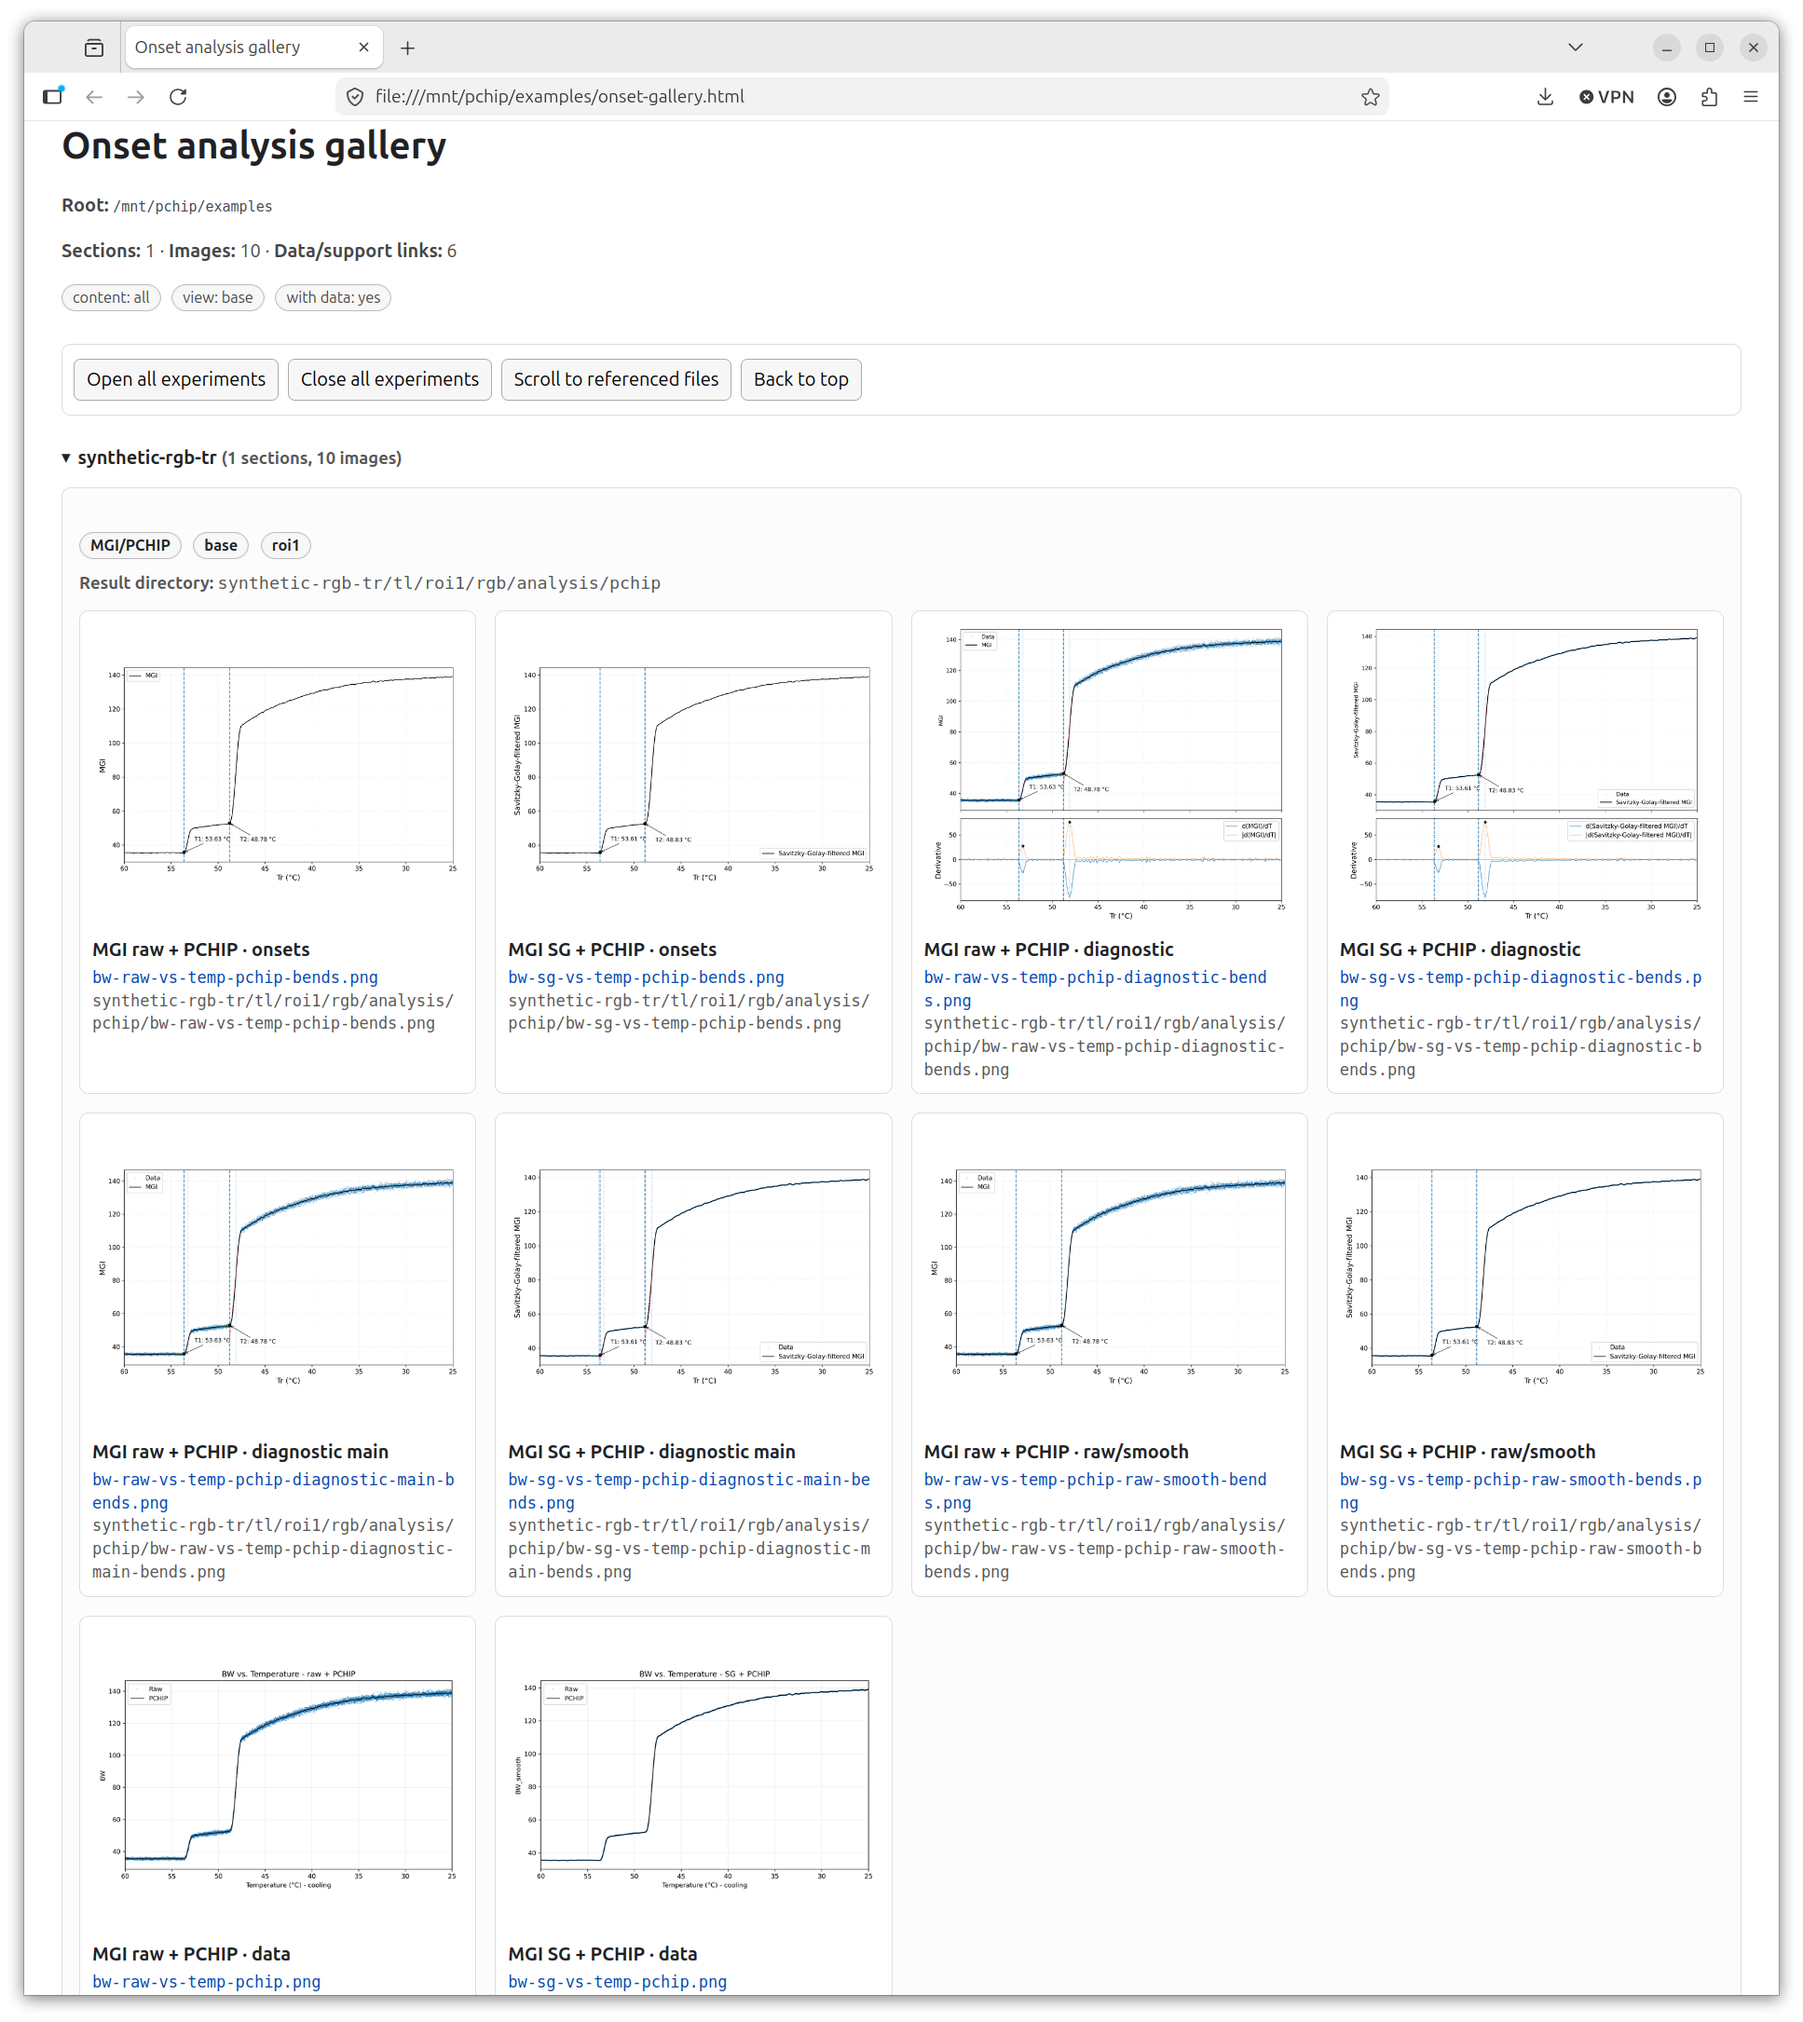
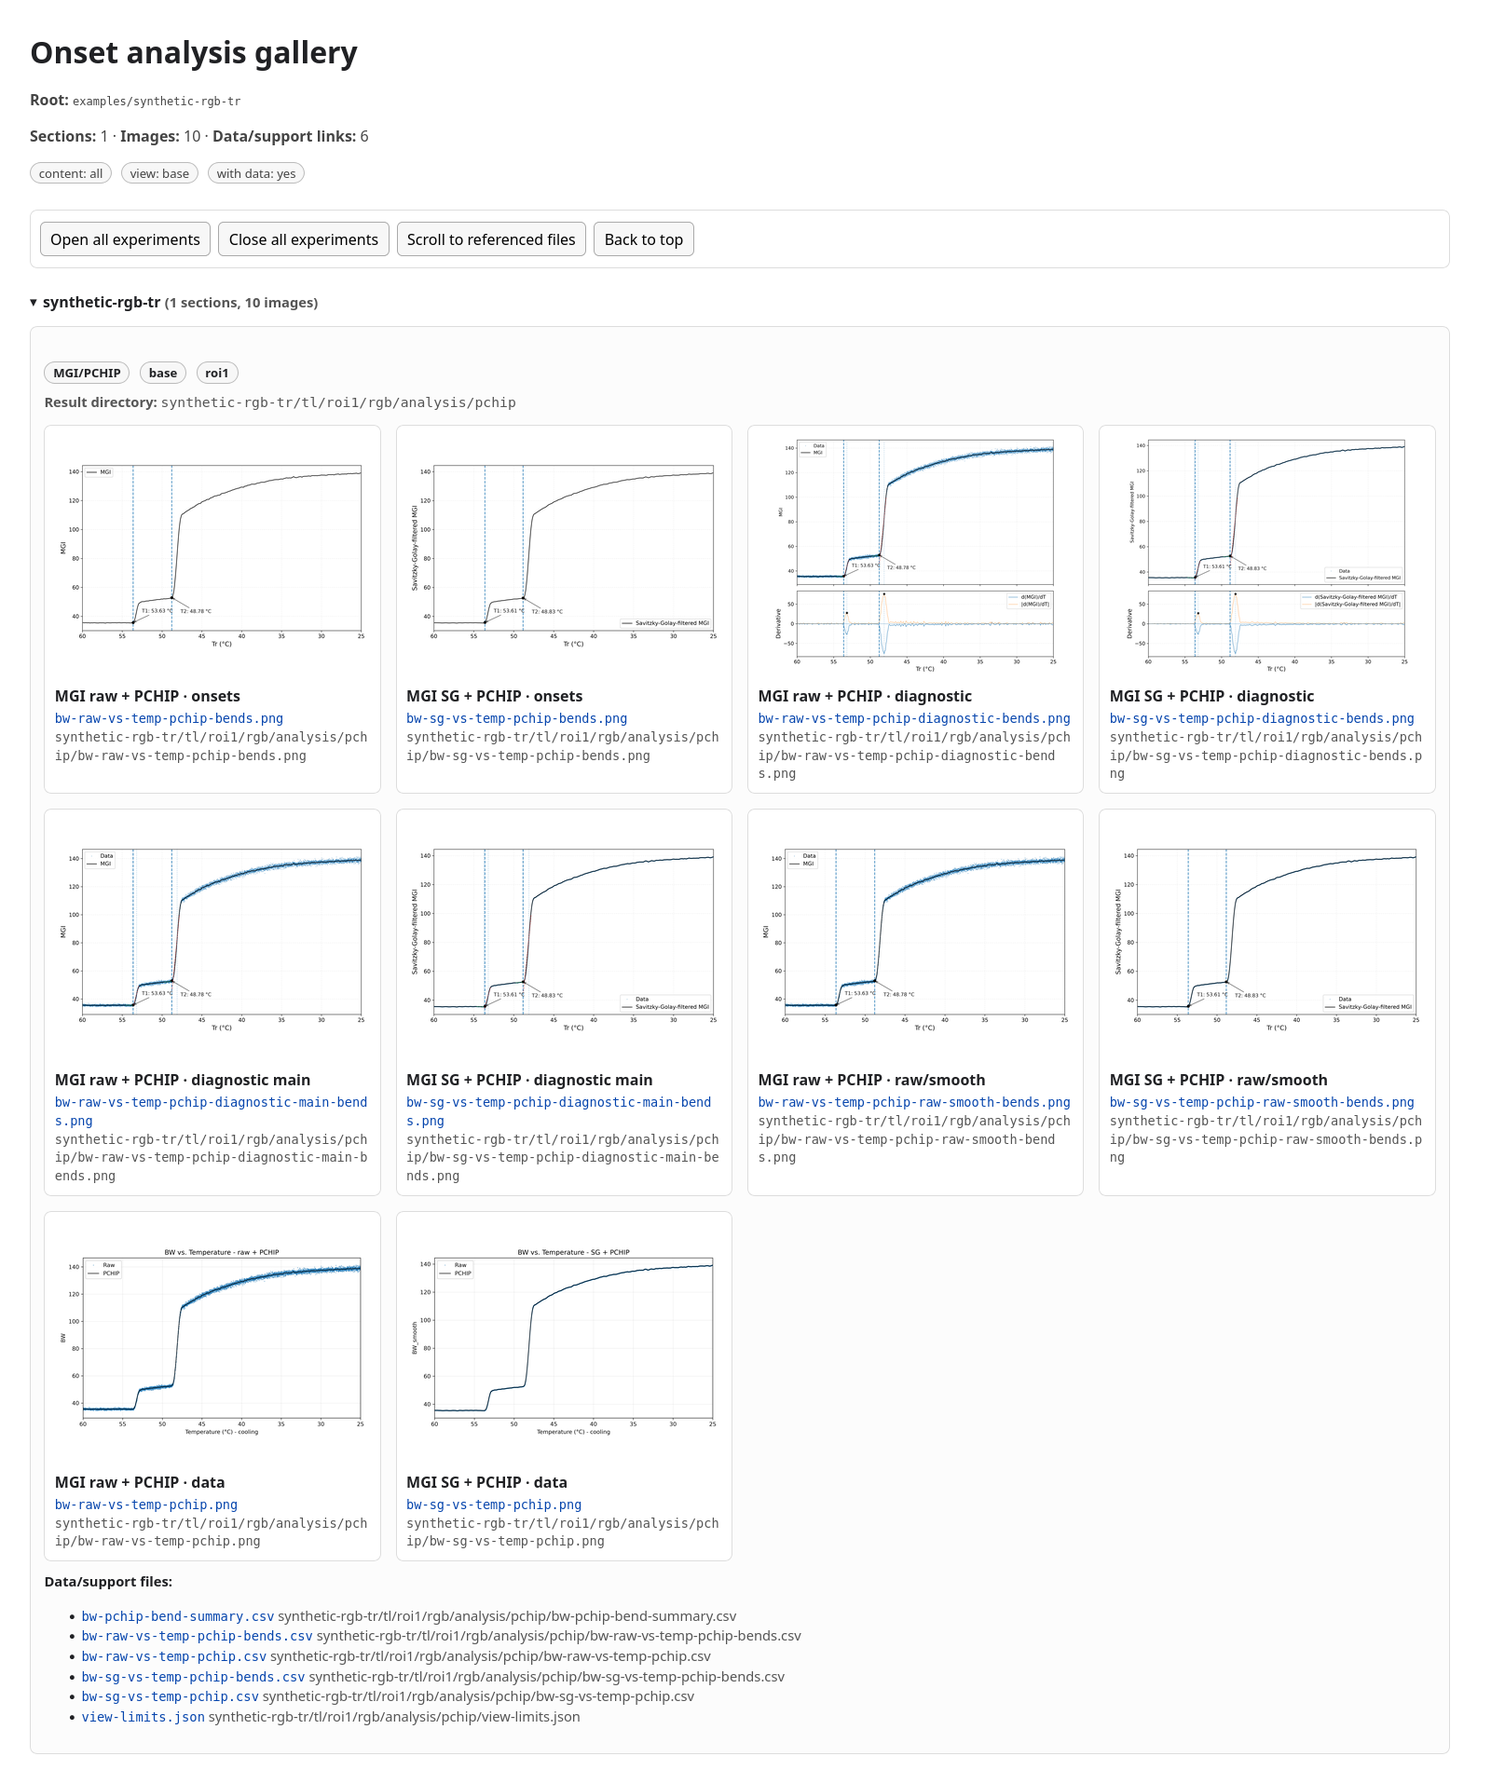
Refresh synthetic gallery and documentation screenshot

diff --git a/tests/test_publication_gallery.py b/tests/test_publication_gallery.py
@@ -36,3 +36,14 @@ class PublicationGalleryTests(unittest.TestCase):
                 'none; saved samples and accepted results only','options':{'width_mm':'NaN'}})):
                 image.with_suffix('.manifest.json').write_text(content)
                 self.assertIsNone(g.publication_width_mm(image))
+
+    def test_public_root_label_changes_only_visible_heading(self):
+        from argparse import Namespace
+        root = Path('/neutral/synthetic')
+        args = Namespace(gallery_content='all', gallery_view='base', with_data=True,
+                         thumbnail_height=240, view_id=None, open_all=True, no_tree=True, title='Synthetic gallery', root_label='examples/synthetic-rgb-tr')
+        page = g.render_html(args=args, root_abs=root, output_path=root/'index.html', items=[])
+        self.assertIn('<code>examples/synthetic-rgb-tr</code>', page)
+        self.assertNotIn('/neutral/synthetic', page)
+        args.root_label = '<synthetic>'
+        self.assertIn('&lt;synthetic&gt;', g.render_html(args=args, root_abs=root, output_path=root/'index.html', items=[]))

diff --git a/scripts/make-onset-gallery.py b/scripts/make-onset-gallery.py
@@ -254,6 +254,7 @@ def parse_args() -> argparse.Namespace:
         default=Path("."),
         help="Source PCHIP project root directory.",
     )
+    parser.add_argument("--root-label", help="Display name for the source root; does not change file paths.")
     parser.add_argument(
         "--output",
         type=Path,
@@ -1209,7 +1210,7 @@ def render_html(
 
     css = render_css(args.thumbnail_height)
     title = html.escape(args.title)
-    root_display = html.escape(root_abs.as_posix())
+    root_display = html.escape(getattr(args, "root_label", None) or root_abs.as_posix())
 
     lines: list[str] = [
         "<!doctype html>",

diff --git a/docs/gallery.md b/docs/gallery.md
@@ -166,23 +166,32 @@ examples/synthetic-rgb-tr/rgb-tr-sg.csv
 examples/synthetic-rgb-tr/pchip/
 ```
 
-To generate a gallery from it, copy the `pchip/` output into a temporary
-experiment-tree layout, for example under `/path/to/data`:
+To reproduce the documentation gallery using only committed synthetic results,
+run from the repository root (use a fresh `work` directory):
 
 ```bash
-work=/path/to/data/examples
-rm -rf "$work/synthetic-rgb-tr"
-
+work=generated/synthetic-gallery
 mkdir -p "$work/synthetic-rgb-tr/tl/roi1/rgb/analysis"
 cp -a examples/synthetic-rgb-tr/pchip \
   "$work/synthetic-rgb-tr/tl/roi1/rgb/analysis/pchip"
-
 python3 scripts/make-onset-gallery.py "$work" \
   --gallery-content all \
   --gallery-view base \
   --with-data \
-  --output "$work/onset-gallery.html"
+  --root-label examples/synthetic-rgb-tr \
+  --open-all \
+  --output onset-gallery.html
 ```
+
+Open `generated/synthetic-gallery/onset-gallery.html` offline. All image and
+support links are relative, so the directory can be moved or shared intact.
+`--root-label` changes only the displayed root name, not discovery or links.
+
+The example gallery contains **10 MGI/PCHIP images**: RAW and SG versions of
+onsets, diagnostics, diagnostic main, raw/smooth, and PCHIP data plots.
+`rgb-tr-sg.png` is deliberately excluded: it is a preprocessing quick-look,
+whose legacy bend markers are not the final PCHIP onset results.
+The documentation screenshot captures the gallery content without browser chrome.
 
 ## Related files
 

diff --git a/README.md b/README.md
@@ -43,7 +43,7 @@ MGI/PCHIP diagnostic figures:
   <img src="docs/figures/sg-pchip-diagnostic.png" alt="MGI SG PCHIP diagnostic" width="48%">
 </p>
 
-Static offline gallery:
+Static offline gallery of the current synthetic example (10 MGI/PCHIP images):
 
 ![Onset analysis gallery](docs/figures/gallery-screenshot.png)
 
